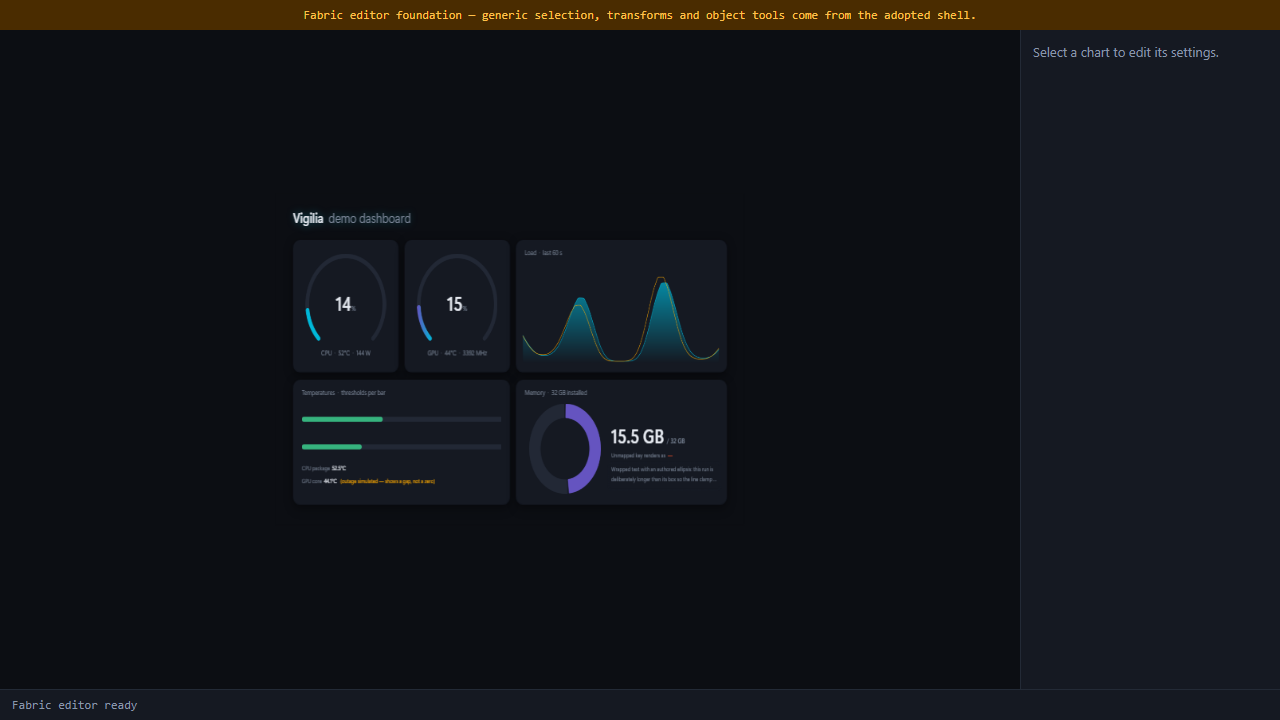
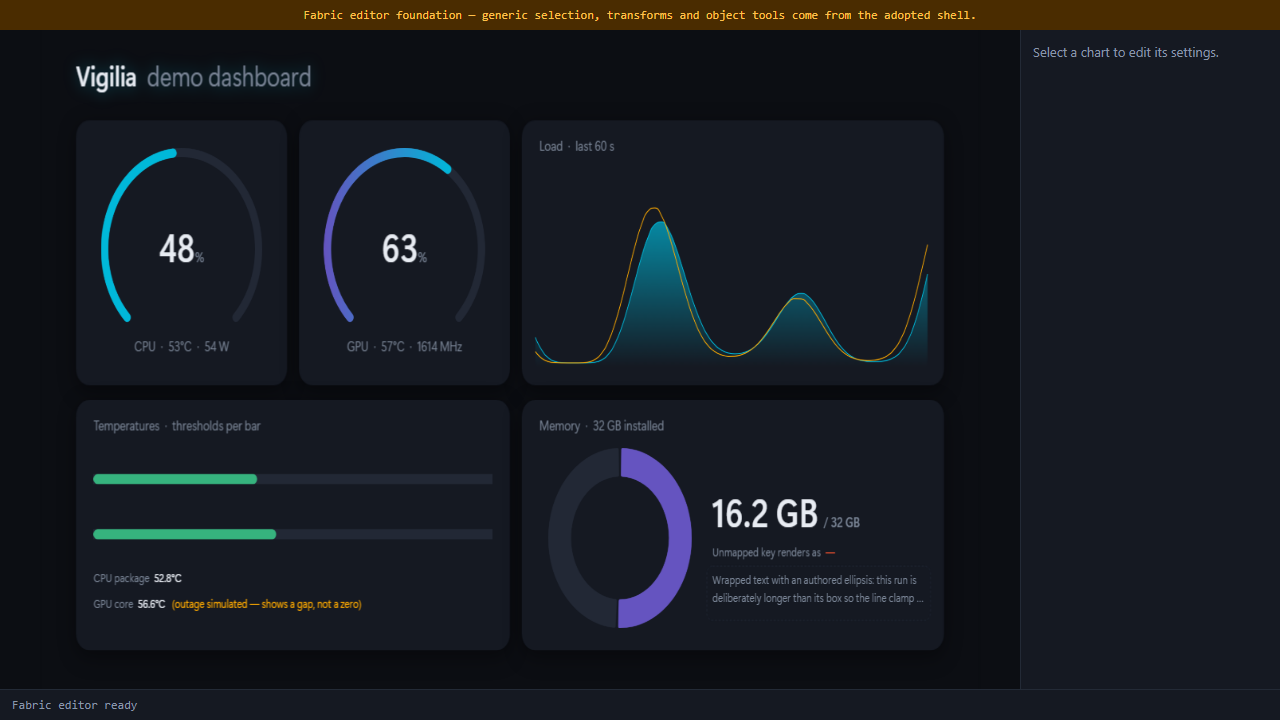
fix(editor): fit dashboard canvas to stage

diff --git a/src/web/packages/editor/src/fabric-image-editor.d.ts b/src/web/packages/editor/src/fabric-image-editor.d.ts
@@ -12,6 +12,7 @@ declare module '@anu3ev/fabric-image-editor' {
     readonly montageAreaHeight?: number;
     readonly editorContainerWidth?: string;
     readonly editorContainerHeight?: string;
+    readonly defaultScale?: number;
     readonly beforeHistoryStateLoad?: (canvas: Canvas) => void | Promise<void>;
     readonly serializeHistoryState?: (canvas: Canvas) => SerialisedScene;
     readonly reviveHistoryState?: (canvas: Canvas, state: SerialisedScene) => void | Promise<void>;

diff --git a/src/web/packages/editor/src/fork-shell.ts b/src/web/packages/editor/src/fork-shell.ts
@@ -51,6 +51,7 @@ export async function mountForkShell({ host, artboard, plan, envelope }: ForkShe
       montageAreaHeight: artboard.height,
       editorContainerWidth: '100%',
       editorContainerHeight: '100%',
+      defaultScale: 1,
       beforeHistoryStateLoad: disposeScene,
       serializeHistoryState: serialiseScene,
       reviveHistoryState: reviveScene,

diff --git a/src/web/packages/editor/src/fork-shell.dom.test.ts b/src/web/packages/editor/src/fork-shell.dom.test.ts
@@ -24,6 +24,7 @@ describe('the adopted editor shell', () => {
       montageAreaHeight: 720,
       editorContainerWidth: '100%',
       editorContainerHeight: '100%',
+      defaultScale: 1,
       beforeHistoryStateLoad: disposeScene,
       serializeHistoryState: serialiseScene,
       reviveHistoryState: reviveScene,

diff --git a/.agents/status.md b/.agents/status.md
@@ -15,8 +15,8 @@ Current handoff only. Durable rules: `AGENTS.md`; product plan:
 | Host bundle | 25.36 KB raw / 8.34 KB gzip; no Fabric dependency edge |
 | Fork | compiled package installed; fork typecheck/build and 1,809 tests passed |
 
-These are the latest code-verification figures recorded before the documentation
-cleanup. No code changed in this pass.
+Full gate run on 2026-09-17. The refreshed desktop editor screenshot confirms
+the initial camera contains the dashboard at usable stage size.
 
 ## Current product state
 
@@ -47,6 +47,8 @@ cleanup. No code changed in this pass.
   editor intact.
 - Current Vigilia extensions are **only** `ChartManager`, `PersistenceManager`
   and `ShortcutManager` composed by `ForkExtensions`.
+- The fork starts at full contain-fit zoom rather than its half-fit library
+  default, so the editor stage does not squeeze the dashboard canvas.
 - The chart panel supports scalar settings for one selected `VigiliaChart`,
   generated from the shared descriptor registry and updated in place.
 - Startup still loads the legacy demo theme, builds a `ScenePlan`, then adopts
